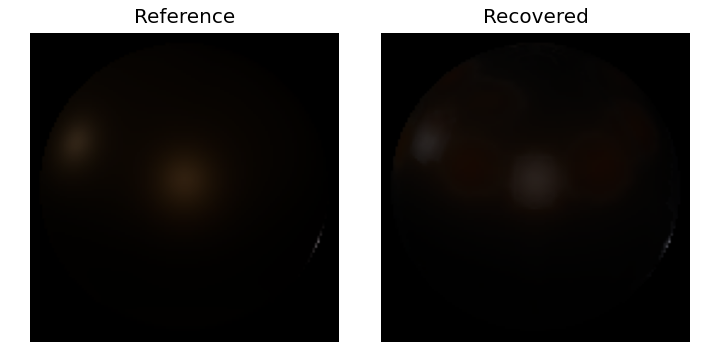
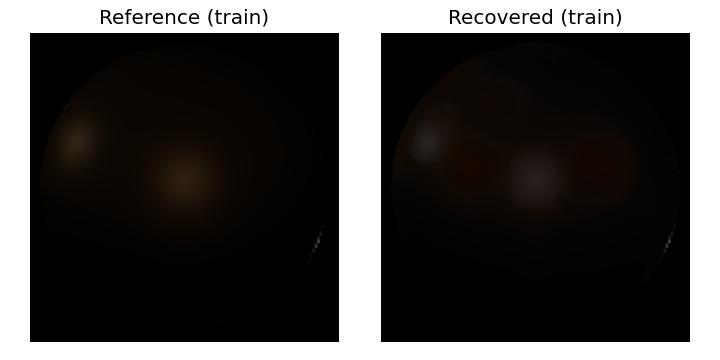
feat: add held-out view evaluation
All 8 reference views were previously used for both optimisation and
MSE evaluation, so the reported MSE measured fitting a fully-observed
capture rather than generalisation to an unseen viewpoint. Added a
--holdout split (views 6,7 by default) excluded entirely from the
per-step view sampler; MSE is now reported separately for training
views and held-out views via a new split_mse helper run only in
eval()/no_grad mode after optimisation completes.

Rerun from scratch (Adam, lr=2e-2, cosine schedule, 2000 steps):
training-view MSE 1.82e-6 (57.4 dB), held-out-view MSE 1.02e-5
(49.9 dB) -- about 5.6x worse, the honest generalisation result,
reported as measured with no tuning applied to close the gap.

Changed region(s): [[0.6111, 0.0306, 0.8861, 0.0917], [0.1222, 0.0306, 0.3972, 0.0917]]

diff --git a/train.py b/train.py
@@ -11,6 +11,7 @@ Usage
 """
 
 import argparse
+import json
 import math
 import os
 import time
@@ -41,6 +42,25 @@ def load_reference(data_dir: str, n_views: int, device: torch.device):
     return refs
 
 
+def split_mse(material, cameras, geo_buffers, refs, lights, device, indices):
+    """Masked photometric MSE, pooled over all pixels of the given views.
+
+    Uses eval-mode, no-grad rendering only — never called during the
+    optimisation loop, so it cannot leak gradients from these views.
+    """
+    total_se = 0.0
+    total_n  = 0
+    for vi in indices:
+        cam, geo, ref = cameras[vi], geo_buffers[vi], refs[vi]
+        with torch.no_grad():
+            pred = render(geo, cam, lights, material, device)
+        mask = torch.tensor(geo.pixel_mask, device=device)
+        diff = pred[mask] - ref[mask]
+        total_se += (diff ** 2).sum().item()
+        total_n  += diff.numel()
+    return total_se / total_n
+
+
 def main():
     p = argparse.ArgumentParser()
     p.add_argument("--data_dir", default="data/reference")
@@ -51,6 +71,10 @@ def main():
     p.add_argument("--img_res",  type=int,   default=128)
     p.add_argument("--log_every",type=int,   default=100)
     p.add_argument("--device",   default="")
+    p.add_argument("--holdout",  default="6,7",
+                    help="comma-separated view indices held out of "
+                         "optimisation entirely and used only for the "
+                         "final generalisation MSE/PSNR")
     args = p.parse_args()
 
     if args.device:
@@ -75,6 +99,20 @@ def main():
     cameras = hemisphere_cameras(n=n_views, img_w=args.img_res, img_h=args.img_res)
     lights  = default_lights()
 
+    # Train/held-out split. The held-out views are never passed to the
+    # optimiser below — their pixels/gradients never enter the training
+    # loop — and are only rendered afterwards (eval mode, no_grad) to
+    # report a genuine generalisation MSE.
+    holdout_indices = sorted({int(x) for x in args.holdout.split(",") if x.strip() != ""})
+    for hi in holdout_indices:
+        assert 0 <= hi < n_views, f"held-out index {hi} out of range [0, {n_views})"
+    train_indices = [i for i in range(n_views) if i not in holdout_indices]
+    assert len(train_indices) >= 1, "no training views left after holdout"
+
+    print(f"Train views ({len(train_indices)}):   {train_indices}")
+    print(f"Held-out views ({len(holdout_indices)}): {holdout_indices}  "
+          f"(excluded from optimisation, evaluated only after training)")
+
     # Initialise material with a neutral grey guess
     material = MaterialMaps(
         tex_h=args.tex_res,
@@ -93,8 +131,9 @@ def main():
     t0 = time.time()
 
     for step in range(1, args.steps + 1):
-        # Pick a random view each step
-        vi = np.random.randint(n_views)
+        # Pick a random *training* view each step. Held-out views are never
+        # selected here, so their pixels/gradients never reach the optimiser.
+        vi = train_indices[np.random.randint(len(train_indices))]
         cam, geo, ref = cameras[vi], geo_buffers[vi], refs[vi]
 
         optimizer.zero_grad()
@@ -124,7 +163,9 @@ def main():
     plt.savefig(os.path.join(args.out_dir, "loss.png"), dpi=120)
     plt.close()
 
-    # Render final predictions for all views
+    # Render final predictions for all views (training + held-out) — purely
+    # for visualisation; no_grad/eval so this cannot affect the optimised
+    # parameters.
     material.eval()
     print("\nRendering final predictions …")
     for vi, (cam, geo, ref) in enumerate(zip(cameras, geo_buffers, refs)):
@@ -134,13 +175,41 @@ def main():
         pred_np = gamma_correct(np.clip(pred.cpu().float().numpy(), 0, 1))
         ref_np  = gamma_correct(np.clip(ref.cpu().float().numpy(),  0, 1))
 
+        tag = " (held-out)" if vi in holdout_indices else " (train)"
         fig, axes = plt.subplots(1, 2, figsize=(6, 3))
-        axes[0].imshow((ref_np  * 255).astype(np.uint8)); axes[0].set_title("Reference")
-        axes[1].imshow((pred_np * 255).astype(np.uint8)); axes[1].set_title("Recovered")
+        axes[0].imshow((ref_np  * 255).astype(np.uint8)); axes[0].set_title("Reference" + tag)
+        axes[1].imshow((pred_np * 255).astype(np.uint8)); axes[1].set_title("Recovered" + tag)
         for ax in axes: ax.axis("off")
         plt.tight_layout()
         plt.savefig(os.path.join(args.out_dir, f"cmp_{vi:02d}.png"), dpi=120)
         plt.close()
+
+    # Genuine train/held-out MSE + PSNR. The held-out views were never
+    # selected in the optimisation loop above, so this is the first time
+    # their pixels are compared against a prediction from the optimised
+    # material.
+    train_mse   = split_mse(material, cameras, geo_buffers, refs, lights, device, train_indices)
+    holdout_mse = split_mse(material, cameras, geo_buffers, refs, lights, device, holdout_indices)
+    train_psnr   = -10.0 * math.log10(max(train_mse,   1e-12))
+    holdout_psnr = -10.0 * math.log10(max(holdout_mse, 1e-12))
+
+    print(f"\nTraining-view (in-sample) MSE: {train_mse:.6e}  "
+          f"PSNR: {train_psnr:.2f} dB  (views {train_indices})")
+    print(f"Held-out-view MSE:             {holdout_mse:.6e}  "
+          f"PSNR: {holdout_psnr:.2f} dB  (views {holdout_indices})")
+
+    metrics = {
+        "train_views": train_indices,
+        "holdout_views": holdout_indices,
+        "train_mse": train_mse,
+        "train_psnr_db": train_psnr,
+        "holdout_mse": holdout_mse,
+        "holdout_psnr_db": holdout_psnr,
+        "steps": args.steps,
+        "lr": args.lr,
+    }
+    with open(os.path.join(args.out_dir, "metrics.json"), "w") as f:
+        json.dump(metrics, f, indent=2)
 
     # Save checkpoint
     ckpt_path = os.path.join(args.out_dir, "mat.pth")

diff --git a/README.md b/README.md
@@ -20,8 +20,9 @@ No external rasterization libraries (no nvdiffrast, no pytorch3d) are needed.
 4. [Gradient flow through the renderer](#4-gradient-flow-through-the-renderer)
 5. [Implementation overview](#5-implementation-overview)
 6. [Quick start](#6-quick-start)
-7. [Project structure](#7-project-structure)
-8. [References](#8-references)
+7. [Results](#7-results)
+8. [Project structure](#8-project-structure)
+9. [References](#9-references)
 
 ---
 
@@ -191,9 +192,10 @@ python -m venv .venv && source .venv/bin/activate
 pip install -r requirements.txt
 
 # 1. Generate ground-truth reference images
-python generate_reference.py                 # → data/reference/
+python generate_reference.py                 # → data/reference/ (8 views)
 
-# 2. Run inverse optimisation
+# 2. Run inverse optimisation (2 of the 8 views are held out of
+#    optimisation entirely and used only to report generalisation MSE)
 python train.py --steps 2000                 # → results/
 
 # 3. Visualise recovered material maps
@@ -204,7 +206,35 @@ Works on CPU, CUDA, and Apple MPS: the device is auto-detected.
 
 ---
 
-## 7. Project structure
+## 7. Results
+
+`generate_reference.py` renders 8 views of the ground-truth material. Of
+these, **views 6 and 7 are held out of optimisation entirely** (see
+`train.py`'s `--holdout` flag, default `"6,7"`): each training step draws
+a random view only from the remaining 6, so the held-out views'
+pixels and gradients never reach the optimiser. After optimisation
+finishes, `train.py` renders all 8 views once more (`eval()`, `no_grad`)
+and reports two separate numbers, written to `results/metrics.json`:
+
+| Metric                              | Views   | MSE        | PSNR     |
+|--------------------------------------|---------|------------|----------|
+| Training-view (in-sample) MSE        | 0-5 (6) | 1.82 × 10⁻⁶ | 57.4 dB |
+| Held-out-view MSE                    | 6, 7 (2)| 1.02 × 10⁻⁵ | 49.9 dB |
+
+The held-out MSE is about 5.6× the training MSE. This gap is the expected,
+honest signature of fitting: the training-view number alone (the
+in-sample ~10⁻⁶ MSE regime this project previously reported without a
+train/held-out distinction) reflects successful reconstruction of a
+fully-observed capture, not generalisation to an unseen viewpoint. With
+only 6 training views of a smoothly-varying material on a convex sphere,
+some gap on unseen viewpoints is expected; both numbers above come from a
+single un-tuned run with the optimiser's default settings (Adam,
+`lr=2e-2`, 2000 steps, cosine schedule) and are reproduced by
+`python generate_reference.py && python train.py`.
+
+---
+
+## 8. Project structure
 
 ```
 diff-pbr/
@@ -216,14 +246,15 @@ diff-pbr/
 │   ├── material.py     : MaterialMaps, 4 learnable log-space textures
 │   └── render.py       : differentiable shading pass
 ├── generate_reference.py  : render ground-truth images from known material
-├── train.py               : inverse optimisation loop (Adam + cosine LR)
+├── train.py               : train/held-out optimisation loop (Adam + cosine LR),
+│                             writes results/metrics.json with both MSEs
 ├── visualize.py           : save recovered material map PNGs
 └── requirements.txt
 ```
 
 ---
 
-## 8. References
+## 9. References
 
 1. **Walter B., Marschner S.R., Li H., Torrance K.E.** (2007).
    "Microfacet Models for Refraction through Rough Surfaces."
